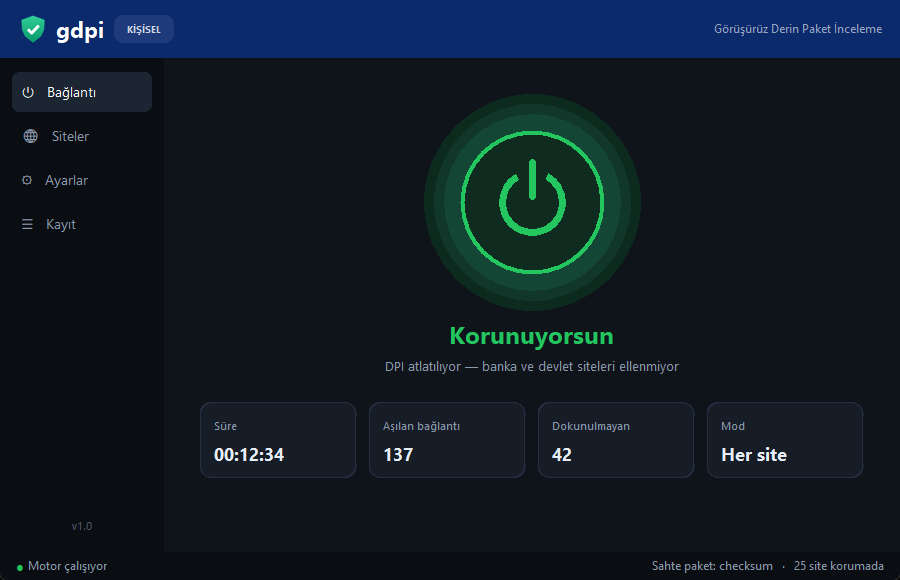
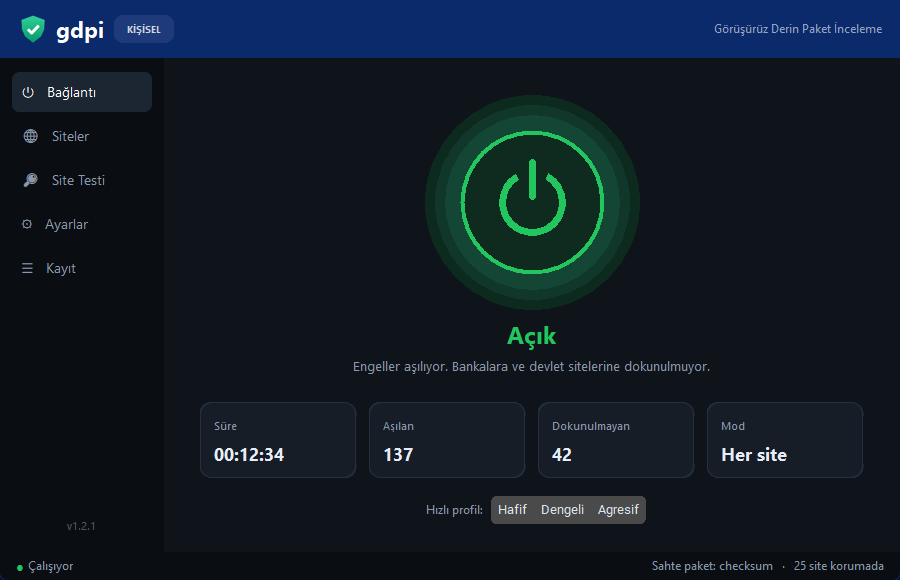
Yazıları sadeleştirdim

diff --git a/gdpi.py b/gdpi.py
@@ -679,24 +679,24 @@ def site_check(host, timeout=6):
     try:
         ip = socket.gethostbyname(host)
     except OSError:
-        return False, "DNS çözülemedi"
+        return False, "Adres bulunamadı (DNS)"
     if ip.startswith(("195.175.254.", "193.192.98.")) or ip in ("127.0.0.1", "0.0.0.0"):
-        return False, f"DNS engelli ({ip}) — DNS yönlendirmeyi aç"
+        return False, f"DNS engellenmiş ({ip}). Ayarlar'dan DNS yönlendirmeyi aç."
     try:
         with socket.create_connection((ip, 443), timeout=timeout) as s:
             with ssl.create_default_context().wrap_socket(s, server_hostname=host):
                 pass
     except ssl.SSLCertVerificationError:
-        return False, "Sertifika uyuşmuyor (yönlendirilmiş olabilir)"
+        return False, "Sertifika tutmuyor, başka yere yönlendiriliyor olabilir"
     except ConnectionResetError:
-        return False, "Bağlantı kesildi (DPI engeli)"
+        return False, "Bağlantı kesildi, muhtemelen engelli"
     except ssl.SSLError:
-        return False, "TLS reddedildi (DPI ya da sitenin bot koruması)"
+        return False, "Site bağlantıyı kabul etmedi (engel ya da sitenin kendi koruması)"
     except socket.timeout:
-        return False, "Zaman aşımı"
+        return False, "Cevap gelmedi"
     except OSError as e:
         return False, f"Hata: {(e.strerror or str(e))[:50]}"
-    return True, f"Açık · {int((time.time() - t0) * 1000)} ms"
+    return True, f"Açılıyor ({int((time.time() - t0) * 1000)} ms)"
 
 
 # ----------------------------------------------------------------- arayüz
@@ -850,7 +850,7 @@ class App(ctk.CTk):
         b.grid_propagate(False)
         self.sb_dot = ctk.CTkLabel(b, text="●", text_color=C["red"], font=(FONT, 13))
         self.sb_dot.pack(side="left", padx=(16, 4))
-        self.sb_text = ctk.CTkLabel(b, text="Motor kapalı", text_color=C["mute"], font=(FONT, 12))
+        self.sb_text = ctk.CTkLabel(b, text="Kapalı", text_color=C["mute"], font=(FONT, 12))
         self.sb_text.pack(side="left")
         self.sb_right = ctk.CTkLabel(b, text="", text_color=C["mute"], font=(FONT, 12))
         self.sb_right.pack(side="right", padx=16)
@@ -877,15 +877,15 @@ class App(ctk.CTk):
         p.grid_columnconfigure(0, weight=1)
         self.power = PowerButton(p, self.toggle)
         self.power.grid(row=0, column=0, pady=(34, 6))
-        self.h_title = ctk.CTkLabel(p, text="Bağlı değil", font=(FONT, 24, "bold"), text_color=C["text"])
+        self.h_title = ctk.CTkLabel(p, text="Şu an kapalı", font=(FONT, 24, "bold"), text_color=C["text"])
         self.h_title.grid(row=1, column=0)
-        self.h_sub = ctk.CTkLabel(p, text="Başlatmak için düğmeye bas", font=(FONT, 13), text_color=C["mute"])
+        self.h_sub = ctk.CTkLabel(p, text="Açmak için ortadaki düğmeye bas", font=(FONT, 13), text_color=C["mute"])
         self.h_sub.grid(row=2, column=0, pady=(2, 22))
 
         stats = ctk.CTkFrame(p, fg_color="transparent")
         stats.grid(row=3, column=0, padx=30, sticky="ew")
         self.stat = {}
-        for i, (key, label) in enumerate([("time", "Süre"), ("split", "Aşılan bağlantı"),
+        for i, (key, label) in enumerate([("time", "Süre"), ("split", "Aşılan"),
                                           ("skip", "Dokunulmayan"), ("mode", "Mod")]):
             stats.grid_columnconfigure(i, weight=1, uniform="s")
             c = self.card(stats)
@@ -908,7 +908,7 @@ class App(ctk.CTk):
         self.v_fake.set({"checksum": "Bozuk checksum", "ttl": "Düşük TTL", "kapali": "Kapalı"}[p["fake"]])
         self.v_rev.set(p["reverse"])
         self.v_quic.set(p["block_quic"])
-        self.log(f"Profil: {name}")
+        self.log(f"{name} profiline geçildi.")
         self.apply()
 
     def apply(self):
@@ -1110,13 +1110,13 @@ class App(ctk.CTk):
     def update_ui_state(self):
         on = bool(self.engine)
         self.power.set(on)
-        self.h_title.configure(text="Korunuyorsun" if on else "Bağlı değil",
+        self.h_title.configure(text="Açık" if on else "Şu an kapalı",
                                text_color=C["green"] if on else C["text"])
-        self.h_sub.configure(text="DPI atlatılıyor — banka ve devlet siteleri ellenmiyor" if on
-                             else "Başlatmak için düğmeye bas")
+        self.h_sub.configure(text="Engeller aşılıyor. Bankalara ve devlet sitelerine dokunulmuyor." if on
+                             else "Açmak için ortadaki düğmeye bas")
         self.sb_dot.configure(text_color=C["green"] if on else C["red"])
-        self.sb_text.configure(text="Motor çalışıyor" if on else "Motor kapalı")
-        self.notify("Korunuyorsun — DPI atlatılıyor" if on else "GDPI durduruldu")
+        self.sb_text.configure(text="Çalışıyor" if on else "Kapalı")
+        self.notify("GDPI açıldı" if on else "GDPI kapatıldı")
         if self.tray:
             self.tray.icon = shield_image(on)
             self.tray.title = "GDPI - Açık" if on else "GDPI - Kapalı"
@@ -1177,7 +1177,7 @@ class App(ctk.CTk):
             self.engine.stop()
             self.engine = None
             self.started_at = None
-            self.log("Durduruldu.")
+            self.log("GDPI kapatıldı.")
             self.update_ui_state()
             return
         self.read_ui()
@@ -1187,14 +1187,14 @@ class App(ctk.CTk):
         except Exception as e:
             self.engine = None
             msg = e.strerror if isinstance(e, OSError) and e.strerror else str(e)
-            self.log(f"Başlatılamadı: {msg}")
+            self.log(f"Açılamadı: {msg}")
             self.show_page("home")                  # hatayı Kayıt'ta saklama, ana ekranda göster
-            self.h_title.configure(text="Başlatılamadı", text_color=C["red"])
+            self.h_title.configure(text="Açılamadı", text_color=C["red"])
             self.h_sub.configure(text=msg, text_color=C["red"])
             return
         self.h_sub.configure(text_color=C["mute"])
         self.started_at = time.time()
-        self.log(f"Başladı ({self.cfg['mode']}, sahte: {self.cfg['fake']}).")
+        self.log("GDPI açıldı.")
         self.update_ui_state()
 
     def quit_app(self):

diff --git a/README.md b/README.md
@@ -2,90 +2,91 @@
   <img src="docs/acik.png" width="720" alt="GDPI ana ekran">
 </p>
 
-<h1 align="center">GDPI — Görüşürüz Derin Paket İnceleme 👋</h1>
+<h1 align="center">GDPI: Görüşürüz Derin Paket İnceleme</h1>
 
 <p align="center">
-  Windows için tek tıkla çalışan, arayüzlü ve <b>siteye göre akıllı</b> bir DPI aşma aracı.<br>
-  GoodbyeDPI'ın mantığı, ama bankanı, e-Devlet'ini ve Grok'unu bozmadan.
-</p>
-
-<p align="center">
-  <a href="../../releases/latest"><b>⬇ GDPI'ı indir</b></a> · Windows (GDPI-windows.zip) · Linux (GDPI-linux.tar.gz)
+  GoodbyeDPI'ın yaptığı işi yapan, ama bankanı, e-Devlet'ini ve Grok'unu bozmayan küçük bir araç.<br>
+  <a href="../../releases/latest"><b>Son sürümü indir</b></a> (Windows ve Linux)
 </p>
 
 ---
 
 ## Neden yaptım?
 
-GoodbyeDPI işini görüyor ama her siteye müdahale ettiği için bazı şeyler bozuluyordu:
-İşbankası takılıyor, Resmî Gazete açılmıyor, Grok uygulaması sorun çıkarıyordu.
-GDPI aynı fikri biraz daha nazik uyguluyor:
+Uzun süre GoodbyeDPI kullandım. İşini görüyordu ama her siteye karıştığı için başka şeyleri bozuyordu.
+İşbankası takılıyordu, Resmî Gazete açılmıyordu, bilgisayardaki Grok uygulaması saçmalıyordu. Ben de aynı fikri
+biraz daha kibar uygulayan bir şey yazdım.
 
-- 🛡 **"Asla dokunma" listesi:** bankalar, `gov.tr` siteleri, X ve Grok'a hiç elini sürmez.
-- 🎯 **İstersen sadece engelli sitelere** (Discord vb.) uygular, gerisi tamamen normal kalır.
-- 🧩 **Daha güvenli sahte paket:** Sahte paketleri varsayılan olarak *bozuk checksum* ile yollar. Yakındaki
-  Türk sunucuları bu paketi asla kabul etmez, bağlantı bozulmaz. Düşük TTL de seçilebilir.
-- ✂ **Alan adının tam ortasından bölme:** TLS'te SNI'yi, HTTP'de `Host` başlığını bulup tam ortasından ikiye ayırır.
-- 🚫 **QUIC engeli** ve isteğe bağlı **DNS yönlendirme** (operatörün DNS zorlamasına karşı).
-- 🔎 **Site testi:** Bir site açılıyor mu, açılmıyorsa neden (DNS mi, DPI mı) tek tıkla görürsün.
-- 🔔 **Bildirim alanında yaşar:** Kapatınca sağ alttaki simgeye iner, Windows açılırken sessizce başlayabilir.
+GDPI'ın farkı, hangi siteye dokunacağını bilmesi. Bankalar, `gov.tr` siteleri, X ve Grok bir "asla dokunma"
+listesinde duruyor ve bunların trafiğine hiç karışmıyor. İstersen ayarı tamamen tersine çevirip sadece engelli
+sitelere (Discord gibi) uygulatabilirsin, geri kalan her şey hiç GDPI yokmuş gibi çalışır.
+
+Birkaç küçük şey daha var:
+
+- Sahte paketleri bozuk checksum ile gönderiyor. GoodbyeDPI'daki düşük TTL yöntemi bazen yakındaki Türk
+  sunucularına ulaşıp bağlantıyı bozuyordu, bu yöntemde sunucu sahte paketi hiçbir zaman kabul etmiyor.
+  İstersen TTL yöntemine de geçebilirsin.
+- Paketi rastgele bir yerden değil, alan adının tam ortasından bölüyor.
+- İçinde bir site testi var. Bir site açılmıyorsa sebebinin DNS mi yoksa engel mi olduğunu orada görebilirsin.
+- Kapatınca sağ alttaki simgeye iniyor, istersen Windows açılırken kendiliğinden başlıyor.
 
 ## Kurulum
 
-### 1) En kolayı: hazır exe
-1. [Releases](../../releases/latest) sayfasından **GDPI-windows.zip**'i indir ve bir klasöre çıkar.
-2. İçindeki **GDPI.exe**'ye çift tıkla, yönetici iznine "Evet" de. (Ağ paketlerini işleyebilmek için gerekiyor.)
-3. Ortadaki büyük düğmeye bas. Yeşil olduysa tamamdır. ✅
+### Windows
 
-> Windows SmartScreen "tanınmayan uygulama" diyebilir, çünkü exe imzasız.
-> **Ek bilgi → Yine de çalıştır** ile açabilirsin. Kaynak kodun tamamı burada, istersen kendin derle (aşağıda).
+[Releases](../../releases/latest) sayfasından **GDPI-windows.zip**'i indir, bir klasöre çıkar ve içindeki
+**GDPI.exe**'yi aç. Yönetici izni isteyecek. Ağ paketlerine erişmek için buna ihtiyacı var, "Evet" de.
+Sonra ortadaki düğmeye bas, yeşile dönerse çalışıyor demektir.
 
-### 2) winget ile
+Exe imzasız olduğu için Windows SmartScreen "tanınmayan uygulama" diyebilir. **Ek bilgi → Yine de çalıştır**
+ile açabilirsin. İçine ne girdiğinden emin olmak istersen kodun tamamı burada, kendin de derleyebilirsin.
+
+winget'e de eklemeyi düşünüyorum ama henüz başvurmadım. Şimdilik zip'ten kurman gerekiyor.
+
+### Linux
+
+Önce gerekenleri bir kere kur:
+
 ```
-winget install TechnoDiance23.GDPI
+sudo apt install python3-venv python3-tk nftables      # Fedora: sudo dnf install python3-tkinter nftables
 ```
-*(winget kataloğuna başvuru aşamasında. Onaylanana kadar bu komut çalışmayabilir, o zamana kadar 1. yolu kullan.)*
 
-### 3) Kaynaktan çalıştır
+Sonra [Releases](../../releases/latest) sayfasından **GDPI-linux.tar.gz**'i indir:
+
+```
+tar -xzf GDPI-linux.tar.gz
+cd GDPI
+./gdpi.sh
+```
+
+`gdpi.sh` ilk açılışta kendine bir Python ortamı kuruyor, sonra GDPI'ı yönetici izniyle açıyor. Arayüz
+Windows'takiyle aynı, ayarlar `~/.config/GDPI/` altında duruyor. Linux'ta WinDivert yerine çekirdeğin kendi
+NFQUEUE özelliği kullanılıyor, ayrıca sürücü kurman gerekmiyor. GDPI kapanınca kuralları siliyor. Bir şekilde
+çökerse bile internetin kesilmiyor, kalan kuralı `sudo nft delete table inet gdpi` ile temizleyebilirsin.
+
+Linux'ta "Windows ile başlat" ayarı yok. GNOME'da tepsi simgesi için AppIndicator eklentisi gerekebilir, o
+yoksa pencereyi kapatınca GDPI da kapanıyor.
+
+### Kaynaktan
+
 ```
 git clone https://github.com/TechnoDiance23/gdpi.git
 cd gdpi
-GDPI.bat
+GDPI.bat        # Linux'ta: ./gdpi.sh
 ```
-`GDPI.bat` eksik Python paketlerini kendisi kurar. Python 3.10+ gerekir.
 
-Kendi exe'ni derlemek istersen: `powershell -ExecutionPolicy Bypass -File build.ps1` → `dist\GDPI\GDPI.exe`
+`GDPI.bat` eksik Python paketlerini kendisi kuruyor (Python 3.10 ya da üstü lazım). Kendi exe'ni derlemek
+istersen `powershell -ExecutionPolicy Bypass -File build.ps1` yeterli, sonuç `dist\GDPI\GDPI.exe` oluyor.
 
-### 4) Linux
-1. Gerekenleri kur (bir kere):
-   ```
-   sudo apt install python3-venv python3-tk nftables      # Fedora: sudo dnf install python3-tkinter nftables
-   ```
-2. [Releases](../../releases/latest) sayfasından **GDPI-linux.tar.gz**'i indir, aç ve çalıştır:
-   ```
-   tar -xzf GDPI-linux.tar.gz
-   cd GDPI
-   ./gdpi.sh
-   ```
+## Nasıl kullanılır?
 
-Kaynaktan da olur: `git clone https://github.com/TechnoDiance23/gdpi.git && cd gdpi && ./gdpi.sh`
+Ana ekrandaki düğme GDPI'ı açıp kapatıyor. Altında ne kadar süredir açık olduğunu ve kaç bağlantıya karıştığını
+görüyorsun. Hafif, Dengeli ve Agresif diye üç hazır profil var. Bir şey çalışmazsa önce bunları dene.
 
-`gdpi.sh` ilk açılışta `.venv` kurar, sonra GDPI'ı yönetici (pkexec/sudo) izniyle açar. Arayüz ve ayarlar
-Windows'takiyle aynıdır; ayarlar `~/.config/GDPI/` altında durur. Linux'ta WinDivert yerine çekirdeğin NFQUEUE
-özelliği ve nftables kullanılır (ek bir sürücü ya da kütüphane gerekmez). GDPI kapanınca kurallar silinir; çökerse
-bile kural `bypass` modunda olduğundan internet kesilmez (kalıntıyı silmek için: `sudo nft delete table inet gdpi`).
-Windows ile başlatma seçeneği Linux'ta yoktur. Tepsi simgesi masaüstüne göre (GNOME'da AppIndicator eklentisi
-gerekebilir) çalışmayabilir; o durumda pencereyi kapatmak GDPI'ı kapatır.
-
-## Kullanım
-
-| Ekran | Ne işe yarar |
-|---|---|
-| **Bağlantı** | Büyük düğme ile aç/kapat. Süre, aşılan ve dokunulmayan bağlantı sayısı. Hızlı profiller: Hafif / Dengeli / Agresif |
-| **Siteler** | Solda engelli siteler, sağda asla dokunulmayacaklar. Her satıra bir alan adı yaz, alt alan adları da kapsanır |
-| **Site Testi** | Bir siteyi ya da listendekilerin hepsini test et |
-| **Ayarlar** | Mod, sahte paket türü, TTL, QUIC, DNS, Windows ile başlat. "Kaydet ve uygula" ile anında geçerli olur |
-| **Kayıt** | Hangi sitelere müdahale edildiğini gösterir. Kopyala/Temizle |
+**Siteler** sayfasında iki liste var: solda engelli siteler, sağda asla dokunulmayacaklar. Her satıra bir alan
+adı yazman yeterli, alt alan adları da otomatik kapsanıyor. **Site Testi**'nde tek bir siteyi ya da listedekilerin
+hepsini deneyebilirsin. **Ayarlar**'dan modu, sahte paket türünü, QUIC ve DNS ayarlarını değiştirebilirsin.
+"Kaydet ve uygula" deyince GDPI'ı kapatıp açmana gerek kalmadan hemen geçerli oluyor.
 
 <p align="center">
   <img src="docs/siteler.png" width="49%"> <img src="docs/test.png" width="49%">
@@ -95,37 +96,50 @@ gerekebilir) çalışmayabilir; o durumda pencereyi kapatmak GDPI'ı kapatır.
 </p>
 
 ### Bir site açılmıyorsa
-1. **Site Testi**'nde dene. "DNS engelli" diyorsa Ayarlar'dan **DNS yönlendir**'i aç.
-2. Hızlı profili **Agresif** yap ya da sahte paketi **Düşük TTL** (3–6) olarak dene.
-3. Bir site GDPI açıkken bozuluyorsa, adını **Asla dokunma** listesine ekle.
 
-### Bilmen gerekenler
-- **GoodbyeDPI'ı tamamen kapat** (servisi varsa `service_remove.cmd`). İkisi aynı anda çalışırsa birbirini bozar,
-  bankalar ve devlet siteleri açılmaz.
-- Windows Defender, WinDivert'i (GoodbyeDPI'daki gibi) "istenmeyebilecek uygulama" diye işaretleyebilir. Sürücü
-  WinDivert'in resmi, imzalı sürücüsüdür. Engellenirse Defender'da GDPI klasörüne izin vermen gerekir.
-- Sorun olursa `%APPDATA%\GDPI\cikti.log` ve `GDPI.exe --selftest` (sonuç: `selftest.txt`) yardımcı olur.
-- Ayarların `%APPDATA%\GDPI\ayarlar.json` dosyasında durur. GDPI bu dosyayı açarken her değeri kontrol eder,
-  geçersiz bir değer (bilinmeyen DNS sunucusu, bozuk alan adı vb.) görürse güvenli varsayılana döner.
-- **Windows ile başlat** açılınca GDPI kendi klasörünü `C:\Program Files\GDPI\` içine kopyalar ve oradan başlar.
-  Bu klasöre sadece yöneticiler yazabilir, böylece başka bir program GDPI'ın yerine geçip yönetici yetkisi alamaz.
-- GDPI bir VPN değildir. IP adresini gizlemez, sadece operatörün paket incelemesini atlatır.
-- Hiçbir veri toplamaz, hiçbir yere bağlanmaz. Sadece senin bilgisayarındaki paketleri yeniden düzenler.
+Önce Site Testi'nde dene. "DNS engellenmiş" diyorsa Ayarlar'dan DNS yönlendirmeyi aç. Değilse profili Agresif'e
+al ya da sahte paketi Düşük TTL'ye çevirip 3 ile 6 arasında değerler dene. Tersi olursa, yani bir site GDPI
+açıkken bozuluyorsa, adını "asla dokunma" listesine ekle.
 
-## Nasıl çalışıyor? (meraklısına)
+### Bilmende fayda var
 
-Operatörler, şifreli bağlantının ilk paketindeki açık metin alan adına (SNI) bakarak engelleme yapar. GDPI,
-[WinDivert](https://reqrypt.org/windivert.html) (Linux'ta NFQUEUE) ile giden paketi yakalar, alan adının tam ortasından iki TCP
-parçasına böler ve önüne operatörün göreceği, ama sunucunun asla kabul etmeyeceği bir sahte paket koyar.
-Operatörün DPI'ı alan adını bütün halinde göremez, sunucu ise parçaları normal şekilde birleştirir.
+GoodbyeDPI'ı tamamen kapat. Servis olarak kurduysan `service_remove.cmd` ile kaldır. İkisi aynı anda çalışınca
+birbirini bozuyor ve bankalar açılmıyor.
+
+Windows Defender, GoodbyeDPI'da da olduğu gibi WinDivert'i "istenmeyebilecek uygulama" diye işaretleyebilir.
+İçindeki sürücü WinDivert'in resmi ve imzalı sürücüsü. Defender engellerse GDPI klasörüne izin vermen gerekiyor.
+
+Bir sorun çıkarsa `%APPDATA%\GDPI\cikti.log` dosyasına bak. `GDPI.exe --selftest` komutu da GDPI'ı açıp birkaç
+siteyi deniyor ve sonucu `selftest.txt` dosyasına yazıyor.
+
+Ayarların `%APPDATA%\GDPI\ayarlar.json` dosyasında. GDPI bu dosyayı açarken her değeri kontrol ediyor, saçma bir
+şey görürse (tanımadığı bir DNS sunucusu, bozuk bir alan adı) varsayılan değere dönüyor.
+
+"Windows ile başlat" açıkken GDPI kendini `C:\Program Files\GDPI\` klasörüne kopyalayıp oradan çalışıyor. Oraya
+sadece yöneticiler yazabildiği için başka bir program GDPI'ın yerine geçip yönetici yetkisi kapamıyor.
+
+GDPI bir VPN değil, IP adresini gizlemiyor. Hiçbir veri toplamıyor ve hiçbir yere bağlanmıyor, sadece senin
+bilgisayarından çıkan paketleri yeniden düzenliyor.
+
+## Nasıl çalışıyor?
+
+Operatörler engellemeyi genelde şifreli bağlantının ilk paketine bakarak yapıyor. O pakette gitmek istediğin
+sitenin adı (SNI) açık olarak yazıyor. GDPI bu paketi yakalıyor, alan adının tam ortasından ikiye bölüyor ve önüne
+operatörün göreceği ama sunucunun asla kabul etmeyeceği bir sahte paket koyuyor. Operatör site adını bütün halinde
+göremiyor, sunucu ise parçaları normal şekilde birleştiriyor. Windows'ta paketleri yakalamak için
+[WinDivert](https://reqrypt.org/windivert.html), Linux'ta NFQUEUE kullanılıyor.
 
 ## Teşekkürler ve lisans
 
-- Fikir: [GoodbyeDPI](https://github.com/ValdikSS/GoodbyeDPI) (ValdikSS) ve [zapret](https://github.com/bol-van/zapret). GDPI onların kodunu içermez, aynı yaklaşımı Python ile sıfırdan uygular.
-- Paket yakalama: [WinDivert 2.2.2](https://reqrypt.org/windivert.html) (LGPLv3 / GPLv2 çift lisans; GDPI dağıtımında LGPLv3), GoodbyeDPI ile aynı sürücü sürümü.
-- Arayüz: [CustomTkinter](https://github.com/TomSchimansky/CustomTkinter) (MIT), [pystray](https://github.com/moses-palmer/pystray) (LGPLv3), [Pillow](https://github.com/python-pillow/Pillow) (MIT-CMU).
+Fikir [GoodbyeDPI](https://github.com/ValdikSS/GoodbyeDPI) (ValdikSS) ve [zapret](https://github.com/bol-van/zapret)'ten
+geliyor. GDPI onların kodunu içermiyor, aynı yaklaşımı Python ile sıfırdan uyguluyor. Paketleri yakalamak için
+GoodbyeDPI ile aynı sürüm olan [WinDivert 2.2.2](https://reqrypt.org/windivert.html) kullanılıyor (LGPLv3 / GPLv2
+çift lisanslı, GDPI'da LGPLv3). Arayüz [CustomTkinter](https://github.com/TomSchimansky/CustomTkinter) (MIT),
+[pystray](https://github.com/moses-palmer/pystray) (LGPLv3) ve [Pillow](https://github.com/python-pillow/Pillow)
+(MIT-CMU) ile yapıldı.
 
-GDPI'ın kendi kodu **MIT** lisanslıdır, bkz. [LICENSE](LICENSE). Üçüncü parti lisanslar için [THIRD_PARTY.md](THIRD_PARTY.md); tam metinler [licenses/](licenses/) klasöründe ve
-Release zip'indeki `licenses\` klasöründedir. LGPL bileşenlerinin kaynak kodu her Release'e eklenir.
+GDPI'ın kendi kodu **MIT** lisanslı, bkz. [LICENSE](LICENSE). Diğer bileşenlerin lisansları
+[THIRD_PARTY.md](THIRD_PARTY.md) dosyasında, tam metinleri [licenses/](licenses/) klasöründe ve indirdiğin zip'in
+içinde. LGPL bileşenlerinin kaynak kodu da her sürüme ayrıca ekleniyor.
 
-Görüşürüz, derin paket inceleme. 👋
+Görüşürüz, derin paket inceleme.
